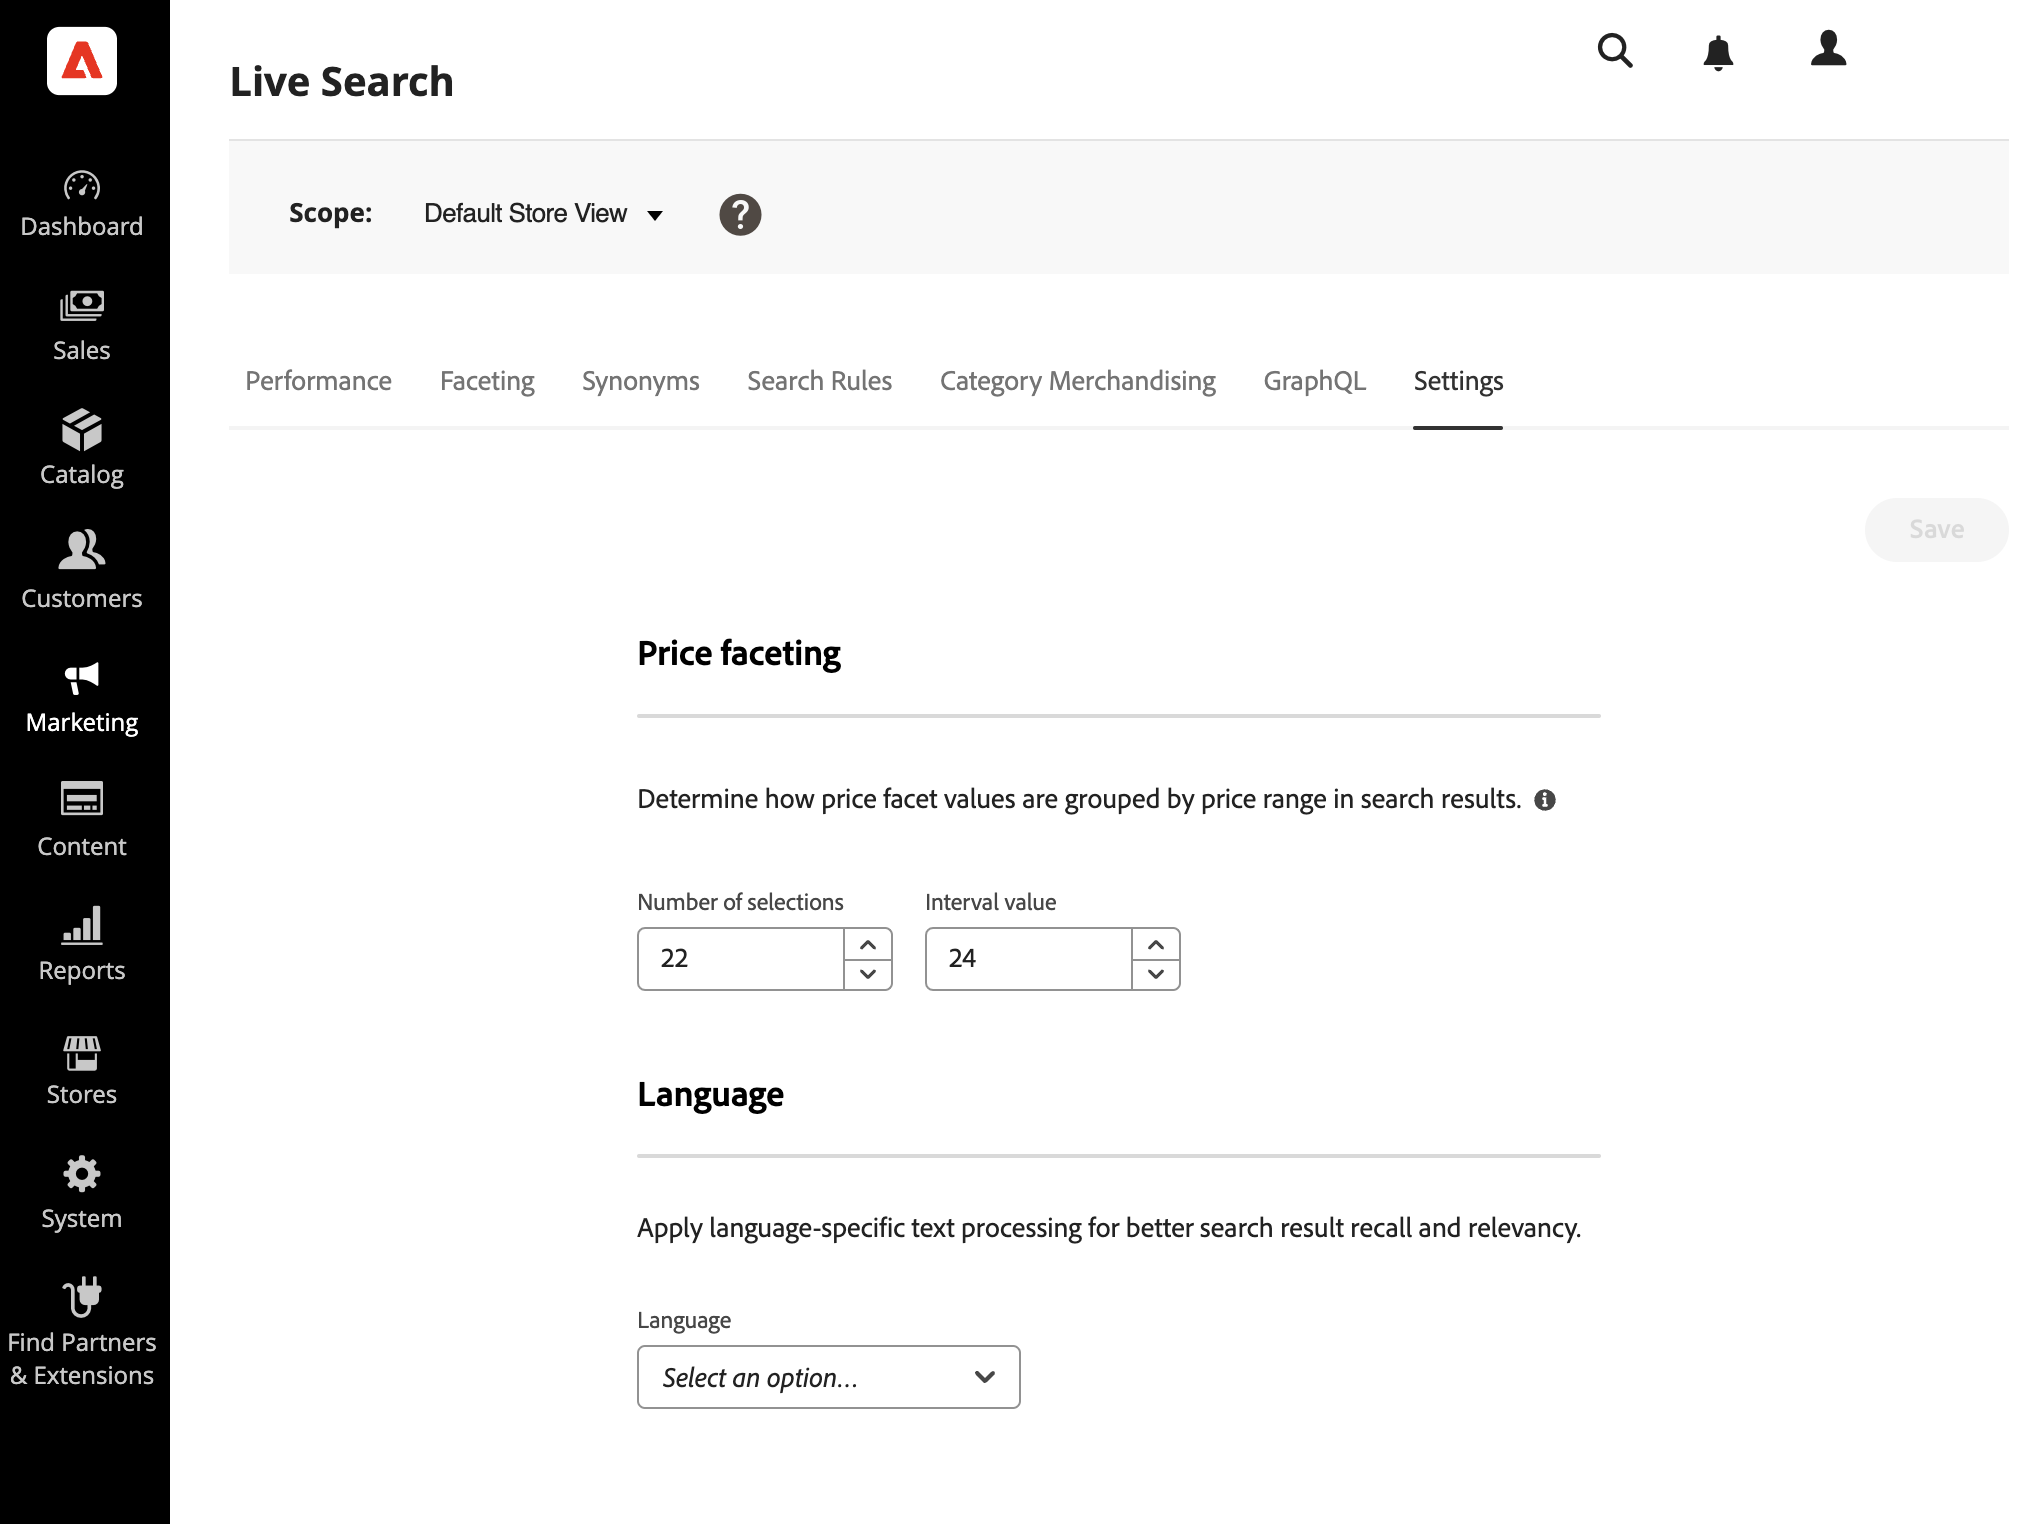
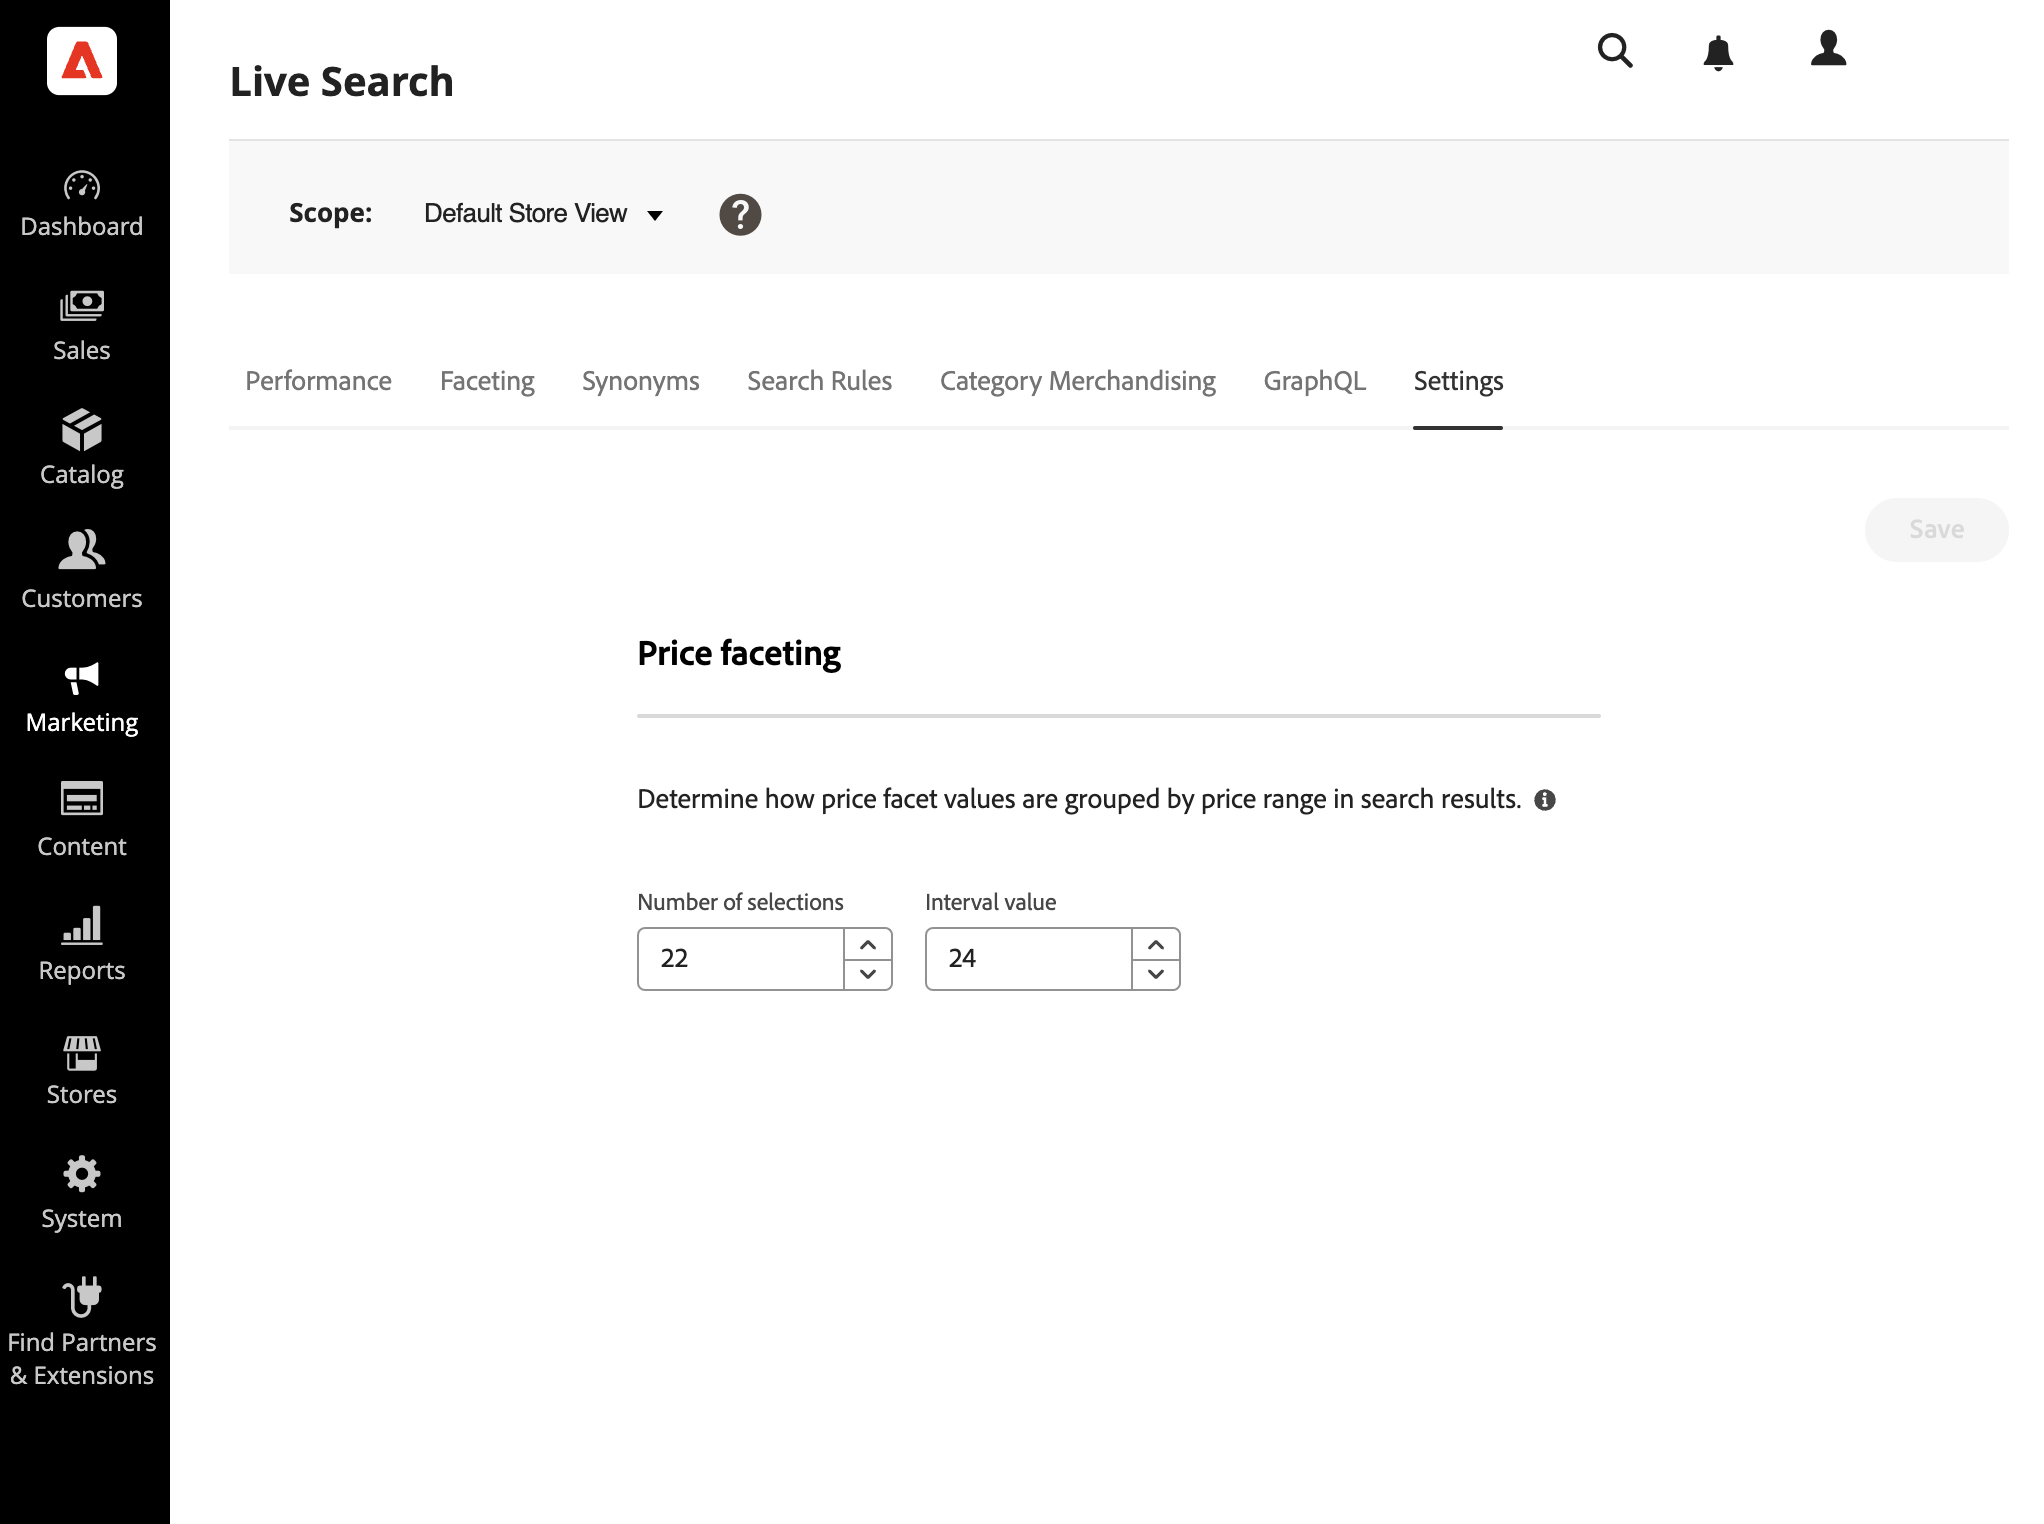
Updated settings page for LS.

Changed region(s): [[0.3082, 0.8018, 0.7705, 0.8327], [0.3082, 0.8635, 0.4315, 0.9252], [0.3082, 0.7093, 0.4007, 0.7402]]

diff --git a/help/live-search/settings.md b/help/live-search/settings.md
@@ -31,12 +31,3 @@ You can specify the number of price range groups and how price values are distri
 |--- |--- |
 | Number of selections | Specifies the number of price range groupings that can be used as search filters in the storefront. Default value: 8, Maximum value: 50 |
 | Interval value | Specifies the price range interval for each group. For example, five selections with an interval value of 20 creates five groupings of 0-20, 20-40, 40-60, 60-80, and >80. Default value: 5, Maximum value: 10,000 |
-
-<!-- ## Language
-
-The Language setting tells [!DNL Live Search] which language to expect when reading the catalog and writing the index. 
-
-Languages have different sets of rules for grammar: how words are separated, verb tenses and synonyms, for example.
-The Language setting ensures that the correct set of rules are applied to the indexing mechanism.
-
-The Language settings should be set to the primary language of the catalog. -->

diff --git a/help/product-recommendations/release-notes.md b/help/product-recommendations/release-notes.md
@@ -41,6 +41,8 @@ These notes describe updates that were published outside of a versioned release 
 
 ### 5.0.1 of magento/product-recommendations
 
+ _September 15, 2023_
+
 [!BADGE Supported]{type=Informative tooltip="Supported"} Adobe Commerce versions 2.4.4 and newer
 
 ![New](../assets/new.svg) Added new modules to support the [Saas Price Indexer](../price-index/index.md).
@@ -55,6 +57,8 @@ These notes describe updates that were published outside of a versioned release 
 +++5.0.0 and prior
 
 ### 5.0.0 of magento/product-recommendations
+
+_March 20,2023_
 
 [!BADGE Supported]{type=Informative tooltip="Supported"} Adobe Commerce versions 2.4.4 and newer
 
